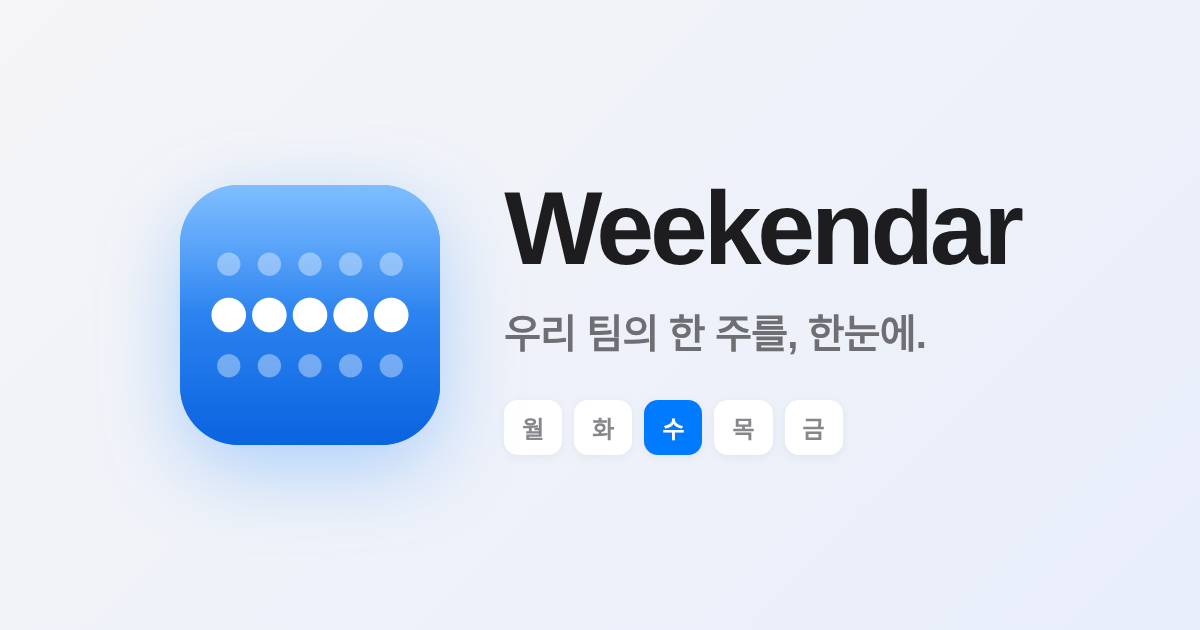
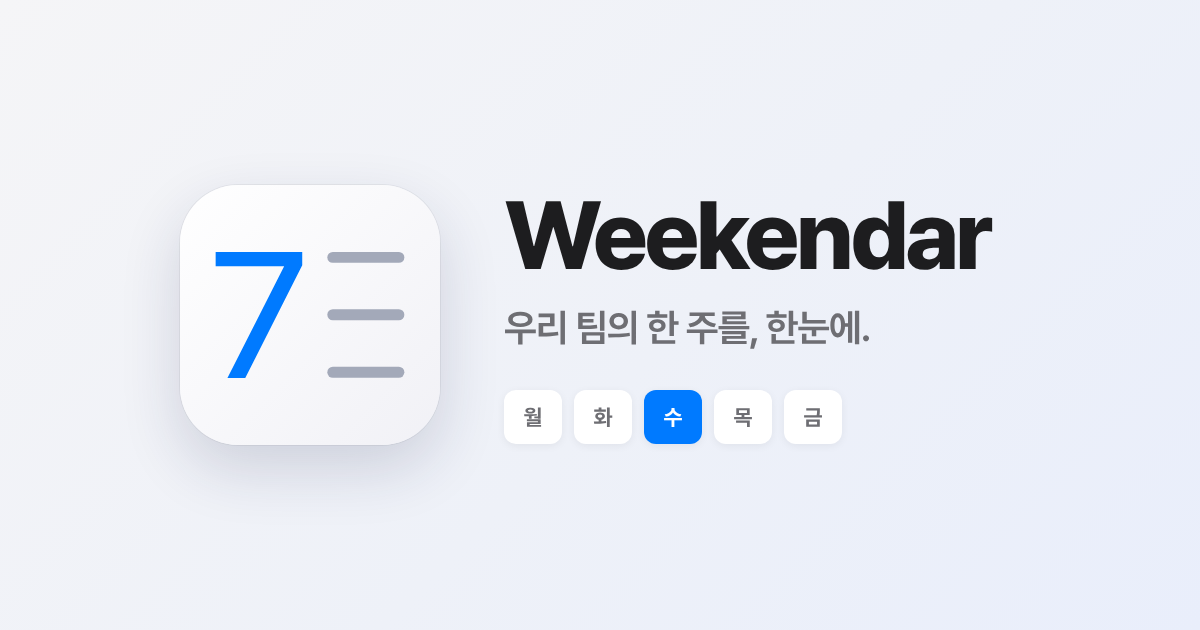
새 아이콘: 흰 바탕에 파란 '7'과 일정 줄
- 홈 화면(iOS·안드로이드·마스크용)·브라우저 탭(작은 크기용 굵은 선)·링크 미리보기 이미지 교체
- 로딩 화면 아이콘 그림자를 흰 아이콘에 맞게 (옅은 테두리 + 회색 그림자)
- 서비스워커 저장본 버전 v3: 옛 아이콘 저장본을 지우고 새로 받게

Claude-Session: https://claude.ai/code/session_01RbviJq2cTH3y48se7cjVGN

diff --git a/index.html b/index.html
@@ -42,7 +42,7 @@
       [data-theme='dark'] .splash { background: #000; }
       .splash.out { opacity: 0; visibility: hidden; pointer-events: none; }
       .splash-box { display: flex; flex-direction: column; align-items: center; transform: translateY(-4vh); }
-      .splash-ic { width: 88px; height: 88px; border-radius: 21px; box-shadow: 0 10px 30px rgba(0, 122, 255, 0.25); }
+      .splash-ic { width: 88px; height: 88px; border-radius: 21px; box-shadow: 0 0 0 0.5px rgba(0, 0, 0, 0.08), 0 10px 28px rgba(0, 0, 0, 0.12); } /* 흰 아이콘: 옅은 테두리 + 회색 그림자 */
       .splash-name { margin-top: 16px; font-size: 21px; font-weight: 650; letter-spacing: -0.02em; color: #1d1d1f; }
       [data-theme='dark'] .splash-name { color: #f5f5f7; }
       .splash-tag { margin-top: 5px; font-size: 13px; color: #86868b; }

diff --git a/public/sw.js b/public/sw.js
@@ -1,7 +1,7 @@
 // Weekendar 서비스워커
 // 1) 화면 파일을 저장해 두어 인터넷이 잠깐 끊겨도 앱이 바로 열리게 함
 // 2) 앱이 닫혀 있어도 서버가 보낸 푸쉬 알림을 받아 휴대폰 알림으로 띄움
-const CACHE = 'weekendar-v2' // 아이콘 교체 때 v1→v2: 옛 저장본(옛 로고)을 지우고 새로 받게 함
+const CACHE = 'weekendar-v3' // 아이콘 교체 때 버전을 올린다 (v2→v3: '7' 아이콘). 옛 저장본(옛 로고)을 지우고 새로 받게 함
 
 self.addEventListener('install', (e) => {
   e.waitUntil(caches.open(CACHE).then((c) => c.addAll(['/', '/manifest.webmanifest', '/icons/icon-192.png'])))
